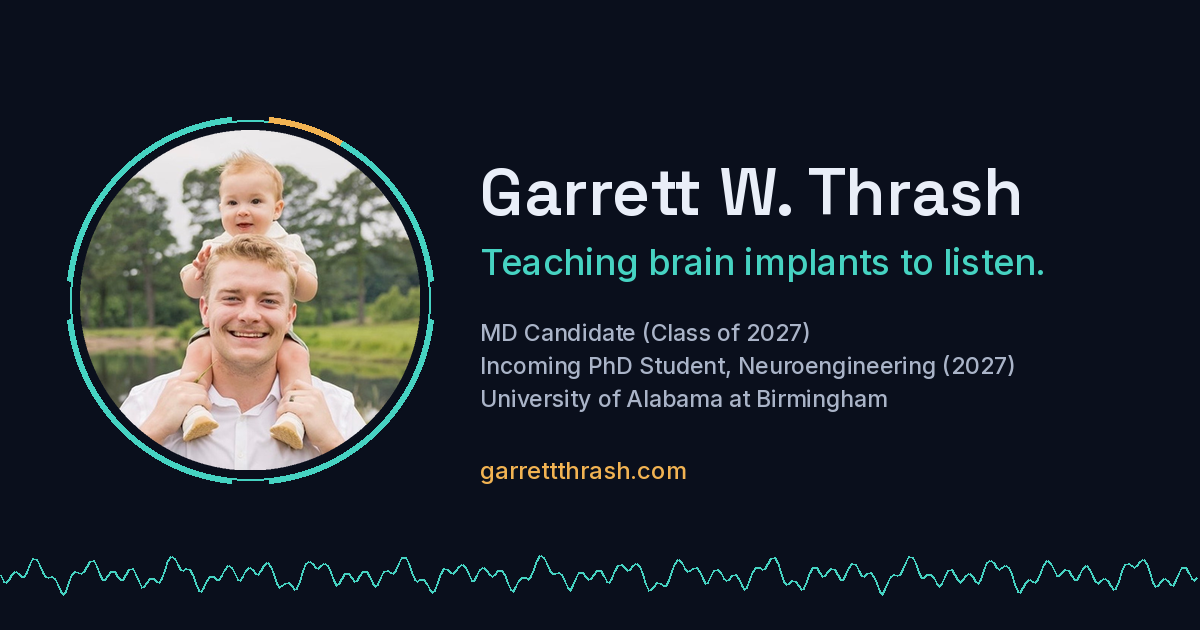
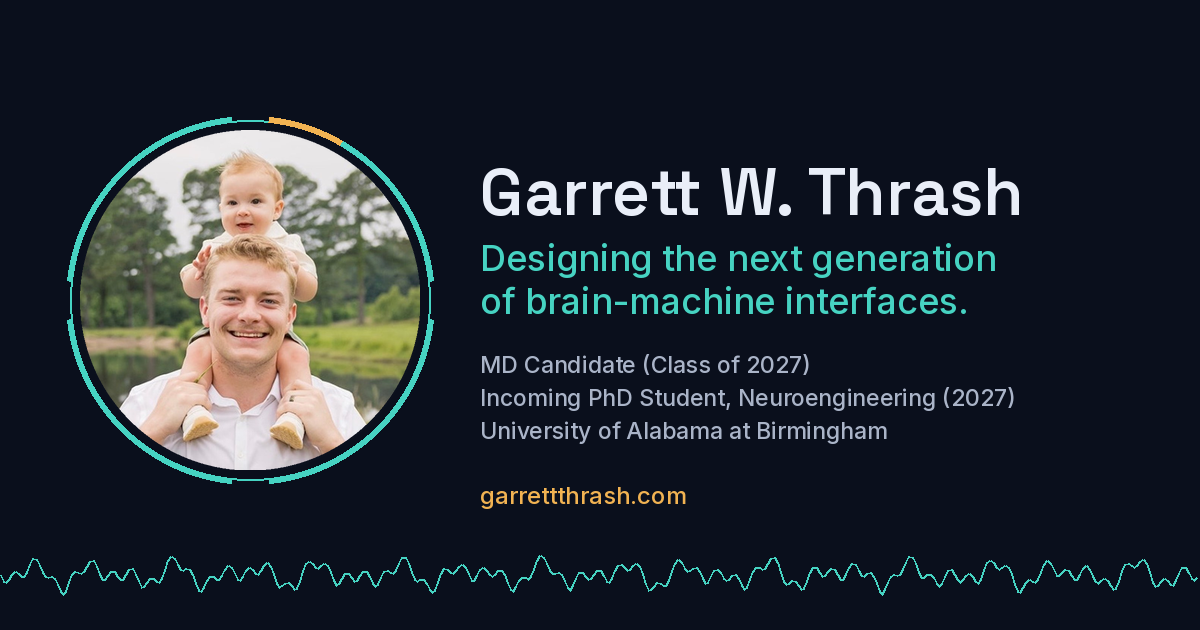
Tagline: designing the next generation of brain-machine interfaces; ORCID in footers and JSON-LD; site checker in tools/

Changed region(s): [[0.4008, 0.3921, 0.8633, 0.7238], [0.4008, 0.7238, 0.5858, 0.8143]]

diff --git a/index.html b/index.html
@@ -13,7 +13,7 @@
 <meta property="og:image" content="https://garrettthrash.com/og.png">
 <meta property="og:image:width" content="1200">
 <meta property="og:image:height" content="630">
-<meta property="og:image:alt" content="Garrett W. Thrash: teaching brain implants to listen.">
+<meta property="og:image:alt" content="Garrett W. Thrash: designing the next generation of brain-machine interfaces.">
 <meta name="twitter:card" content="summary_large_image">
 <meta name="theme-color" content="#0a0f1c">
 <link rel="icon" href="/favicon.svg" type="image/svg+xml">
@@ -34,7 +34,7 @@
   "jobTitle": "MD Candidate; Incoming PhD Student, Neuroengineering",
   "affiliation": { "@type": "CollegeOrUniversity", "name": "University of Alabama at Birmingham" },
   "alumniOf": { "@type": "CollegeOrUniversity", "name": "Birmingham-Southern College" },
-  "sameAs": ["https://github.com/gthrash54", "https://www.linkedin.com/in/garrett-thrash-311709430/", "https://pubmed.ncbi.nlm.nih.gov/?term=Thrash+GW%5BAuthor%5D&sort=pubdate"]
+  "sameAs": ["https://github.com/gthrash54", "https://www.linkedin.com/in/garrett-thrash-311709430/", "https://orcid.org/0009-0008-1061-8679", "https://pubmed.ncbi.nlm.nih.gov/?term=Thrash+GW%5BAuthor%5D&sort=pubdate"]
 }
 </script>
 </head>
@@ -60,9 +60,9 @@
     </div>
     <p class="eyebrow">Neuroengineering · Neurology · Birmingham, AL</p>
     <h1>Garrett W. Thrash</h1>
-    <p class="mission">Teaching brain implants to listen.</p>
+    <p class="mission">Designing the next generation of brain-machine interfaces.</p>
     <p class="tagline">MD Candidate (Class of 2027) · Incoming PhD Student, Neuroengineering (2027)<br>University of Alabama at Birmingham</p>
-    <p class="intro">I decode intracranial local field potentials (LFPs) for adaptive deep brain stimulation, direct AI coding agents to build open-source tools for intraoperative neural data, and study equitable access to neurological care.</p>
+    <p class="intro">I decode intracranial local field potentials (LFPs) for adaptive deep brain stimulation, work on open-source tools for intraoperative neural data, and study equitable access to neurological care.</p>
     <ul class="readout" aria-label="Focus areas">
       <li>adaptive DBS</li><li>neural decoding</li><li>BCI</li>
     </ul>
@@ -91,6 +91,7 @@
       <div class="wrap">
         <span><a href="mailto:gthrash@uab.edu">gthrash@uab.edu</a></span>
         <span><a href="https://www.linkedin.com/in/garrett-thrash-311709430/" rel="me">LinkedIn</a></span>
+        <span><a href="https://orcid.org/0009-0008-1061-8679" rel="me">ORCID</a></span>
         <span><a href="https://github.com/gthrash54" rel="me">GitHub</a></span>
       </div>
     </footer>

diff --git a/research.html b/research.html
@@ -13,7 +13,7 @@
 <meta property="og:image" content="https://garrettthrash.com/og.png">
 <meta property="og:image:width" content="1200">
 <meta property="og:image:height" content="630">
-<meta property="og:image:alt" content="Garrett W. Thrash: teaching brain implants to listen.">
+<meta property="og:image:alt" content="Garrett W. Thrash: designing the next generation of brain-machine interfaces.">
 <meta name="twitter:card" content="summary_large_image">
 <meta name="theme-color" content="#0a0f1c">
 <link rel="icon" href="/favicon.svg" type="image/svg+xml">
@@ -39,7 +39,7 @@
 <main class="wrap">
 <div class="page-title">
   <h1>Research &amp; Projects</h1>
-  <p>What I am working on now, the tools I direct AI agents to build for it, and the work that led here.</p>
+  <p>What I am working on now, the tools behind it, and the work that led here.</p>
 </div>
 
 <section id="about">
@@ -222,7 +222,7 @@
 <footer>
   <div class="wrap">
     <span>© 2026 Garrett W. Thrash · garrettthrash.com</span>
-    <span><a href="mailto:gthrash@uab.edu">gthrash@uab.edu</a> · <a href="https://www.linkedin.com/in/garrett-thrash-311709430/" rel="me">LinkedIn</a> · <a href="https://github.com/gthrash54" rel="me">GitHub</a> · <a href="index.html">Home</a></span>
+    <span><a href="mailto:gthrash@uab.edu">gthrash@uab.edu</a> · <a href="https://www.linkedin.com/in/garrett-thrash-311709430/" rel="me">LinkedIn</a> · <a href="https://orcid.org/0009-0008-1061-8679" rel="me">ORCID</a> · <a href="https://github.com/gthrash54" rel="me">GitHub</a> · <a href="index.html">Home</a></span>
   </div>
 </footer>
 </body>

diff --git a/publications.html b/publications.html
@@ -13,7 +13,7 @@
 <meta property="og:image" content="https://garrettthrash.com/og.png">
 <meta property="og:image:width" content="1200">
 <meta property="og:image:height" content="630">
-<meta property="og:image:alt" content="Garrett W. Thrash: teaching brain implants to listen.">
+<meta property="og:image:alt" content="Garrett W. Thrash: designing the next generation of brain-machine interfaces.">
 <meta name="twitter:card" content="summary_large_image">
 <meta name="theme-color" content="#0a0f1c">
 <link rel="icon" href="/favicon.svg" type="image/svg+xml">
@@ -103,7 +103,7 @@
 <footer>
   <div class="wrap">
     <span>© 2026 Garrett W. Thrash · garrettthrash.com</span>
-    <span><a href="mailto:gthrash@uab.edu">gthrash@uab.edu</a> · <a href="https://www.linkedin.com/in/garrett-thrash-311709430/" rel="me">LinkedIn</a> · <a href="https://github.com/gthrash54" rel="me">GitHub</a> · <a href="index.html">Home</a></span>
+    <span><a href="mailto:gthrash@uab.edu">gthrash@uab.edu</a> · <a href="https://www.linkedin.com/in/garrett-thrash-311709430/" rel="me">LinkedIn</a> · <a href="https://orcid.org/0009-0008-1061-8679" rel="me">ORCID</a> · <a href="https://github.com/gthrash54" rel="me">GitHub</a> · <a href="index.html">Home</a></span>
   </div>
 </footer>
 </body>

diff --git a/talks.html b/talks.html
@@ -13,7 +13,7 @@
 <meta property="og:image" content="https://garrettthrash.com/og.png">
 <meta property="og:image:width" content="1200">
 <meta property="og:image:height" content="630">
-<meta property="og:image:alt" content="Garrett W. Thrash: teaching brain implants to listen.">
+<meta property="og:image:alt" content="Garrett W. Thrash: designing the next generation of brain-machine interfaces.">
 <meta name="twitter:card" content="summary_large_image">
 <meta name="theme-color" content="#0a0f1c">
 <link rel="icon" href="/favicon.svg" type="image/svg+xml">
@@ -93,7 +93,7 @@
 <footer>
   <div class="wrap">
     <span>© 2026 Garrett W. Thrash · garrettthrash.com</span>
-    <span><a href="mailto:gthrash@uab.edu">gthrash@uab.edu</a> · <a href="https://www.linkedin.com/in/garrett-thrash-311709430/" rel="me">LinkedIn</a> · <a href="https://github.com/gthrash54" rel="me">GitHub</a> · <a href="index.html">Home</a></span>
+    <span><a href="mailto:gthrash@uab.edu">gthrash@uab.edu</a> · <a href="https://www.linkedin.com/in/garrett-thrash-311709430/" rel="me">LinkedIn</a> · <a href="https://orcid.org/0009-0008-1061-8679" rel="me">ORCID</a> · <a href="https://github.com/gthrash54" rel="me">GitHub</a> · <a href="index.html">Home</a></span>
   </div>
 </footer>
 </body>

diff --git a/tools/check-site.py b/tools/check-site.py
@@ -1,0 +1,27 @@
+#!/usr/bin/env python3
+"""Pre-commit checks: local links resolve, head tags present, one h1, JSON-LD parses, XML valid, banned words absent."""
+import json, re, sys, subprocess, pathlib
+ROOT = pathlib.Path(__file__).resolve().parent.parent
+bad = 0
+pages = sorted(ROOT.glob("*.html")) + sorted((ROOT / "writing").glob("*.html"))
+for p in pages:
+    s = p.read_text()
+    for m in re.finditer(r'(?:href|src)="([^"#]+)(?:#[^"]*)?"', s):
+        u = m.group(1)
+        if u.startswith(("http", "mailto:", "data:", "tel:")): continue
+        t = (ROOT / u.lstrip("/")) if u.startswith("/") else (p.parent / u)
+        if not t.exists(): print(f"BROKEN {p.name}: {u}"); bad += 1
+    if p.name == "404.html": continue
+    for tag in ['<title>', 'name="description"', 'og:title', 'og:image" content="https://', 'rel="icon" href="/favicon.svg"', 'rel="canonical"']:
+        if tag not in s: print(f"MISSING {p.name}: {tag}"); bad += 1
+    if (n := s.count("<h1")) != 1: print(f"H1 x{n} {p.name}"); bad += 1
+    for m in re.finditer(r'<script type="application/ld\+json">(.*?)</script>', s, re.S):
+        try: json.loads(m.group(1))
+        except Exception as e: print(f"JSONLD {p.name}: {e}"); bad += 1
+    for w in ("physician", "stealth", "pre-seed", "Tools I build", "hidden>", "direct AI"):
+        if w in s: print(f"WORD {p.name}: {w!r}"); bad += 1
+json.load(open(ROOT / "figures/figures.json"))
+for x in ("sitemap.xml", "feed.xml"):
+    if (ROOT / x).exists() and subprocess.run(["xmllint", "--noout", str(ROOT / x)]).returncode: bad += 1
+print("OK" if not bad else f"{bad} problem(s)")
+sys.exit(1 if bad else 0)

diff --git a/tools/make-og.py b/tools/make-og.py
@@ -11,7 +11,7 @@ from PIL import Image, ImageDraw, ImageFont
 
 ROOT = Path(__file__).resolve().parent.parent
 NAME = "Garrett W. Thrash"
-TAGLINE = "Teaching brain implants to listen."
+TAGLINE = "Designing the next generation\nof brain-machine interfaces."
 STATUS = "MD Candidate (Class of 2027)\nIncoming PhD Student, Neuroengineering (2027)\nUniversity of Alabama at Birmingham"
 URL = "garrettthrash.com"
 BG, INK, INK2, ACCENT, ACCENT2 = "#0a0f1c", "#e9eef8", "#aab4c8", "#46d3c2", "#f2b352"
@@ -66,9 +66,9 @@ def main():
     f_stat = find_font(font_dir, "Inter", 400, 23)
     f_url = find_font(font_dir, "Inter", 500, 24)
     d.text((x0, 150), NAME, font=f_name, fill=INK)
-    d.text((x0, 240), TAGLINE, font=f_tag, fill=ACCENT)
-    d.multiline_text((x0, 318), STATUS, font=f_stat, fill=INK2, spacing=10)
-    d.text((x0, 455), URL, font=f_url, fill=ACCENT2)
+    d.multiline_text((x0, 236), TAGLINE, font=f_tag, fill=ACCENT, spacing=8) if TAGLINE else None
+    d.multiline_text((x0, 350 if TAGLINE else 250), STATUS, font=f_stat, fill=INK2, spacing=10)
+    d.text((x0, 480 if TAGLINE else 390), URL, font=f_url, fill=ACCENT2)
     out = ROOT / "og.png"
     im.save(out, optimize=True)
     print(f"wrote {out} {im.size}")
